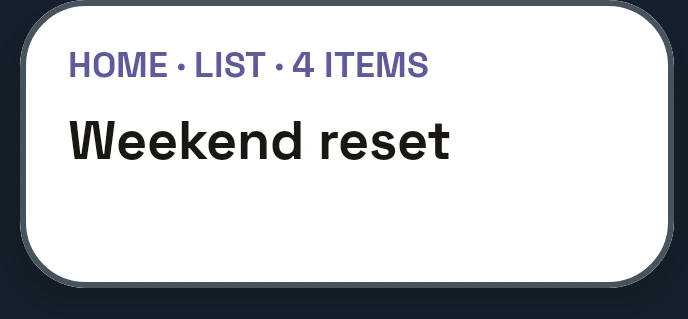
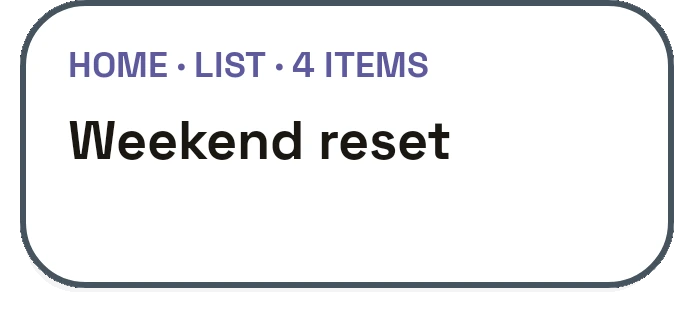
Today gathers its cards in, the mirror of the Board letting them go
The Board section scatters; this one collects. Today's fanned cards start spread
beside the copy and gather onto the stack on its screen as you scroll, fading
only once they have landed on it — so what is left is the stack the app itself
draws.

It is the same machinery both times, now shared: one --p from a rAF-throttled
scroll listener, targets measured against the live boxes and recomputed on
resize and on image load, since the rows are laid out from each card's own
aspect ratio and a lazy image has none until it arrives.

The static Today section it replaces is gone, and the board cards no longer
carry a rectangle of the app's page colour behind them.

Changed region(s): [[0.0, 0.0, 1.0, 1.0]]

diff --git a/src/main.jsx b/src/main.jsx
@@ -3,6 +3,7 @@ import { useEffect, useRef, useState } from "preact/hooks";
 import { Mark, Plate } from "./mark.jsx";
 import { Art, Phone, PhoneShell, ThemeToggle, useTheme } from "./theme.jsx";
 import BOARD_CARDS from "../public/media/art/board_cards.json";
+import TODAY_TARGET from "../public/media/art/today_target.json";
 import "./styles.css";
 
 const MAILTO = "mailto:contact@tackry.com?subject=Tackry";
@@ -161,36 +162,6 @@ function Loop() {
   );
 }
 
-/* ----------------------------------------------------------------- today -- */
-
-function Today() {
-  return (
-    <section class="section section-alt" id="today">
-      <div class="wrap">
-        <p class="eyebrow">Today</p>
-        <h2>A stack that fans out</h2>
-        <p class="section-lede">
-          Today opens on a single stack of plates — the app's own mark, holding your pinned
-          tacks. Tap it and the stack fans into a grid. Tap a card and it grows into a full
-          view you can act on, then shrinks back where it came from.
-        </p>
-        <div class="today-grid">
-          <Art
-            name="today_stack" width="1122" height="944"
-            alt="Today with the stack closed: three tilted plates holding a pinned tack, above counts reading 1 due now, 2 pinned, 5 new captures."
-            caption="Closed: one stack, and what is waiting behind it."
-          />
-          <Art
-            name="today_fan" width="1170" height="1521"
-            alt="The same plates after tapping the stack, fanned into a two-column grid of cards outlined in green, blue and orange."
-            caption="Tapped: the same plates, fanned into a grid."
-          />
-        </div>
-      </div>
-    </section>
-  );
-}
-
 /* --------------------------------------------------------------- screens -- */
 
 function Screens() {
@@ -225,33 +196,10 @@ function Screens() {
   );
 }
 
-/* ------------------------------------------------------------ board zoom -- */
-
-const BOARD_TRAVELLERS = 4;
-
-/**
- * The Board, and then the Board's own cards. Scrolling drives one number, --p, from 0 to 1: the
- * phone fades and the cards slide off it into a grid beside the copy.
- *
- * The cards are not stand-ins. They are sliced out of that very screenshot by
- * scripts/export_landing_art.py, which also records where each one sat as a fraction of the
- * screen — and writes the board back out with those cards erased. The phone shows the emptied
- * board, so each card exists exactly once: at rest it sits in its own hole and the screen looks
- * whole, and when it leaves it takes the gap with it.
- *
- * Where they land is measured, not guessed: the target grid is laid out against the live box, so
- * the travel is exact at any width and the cards barely have to scale, which keeps them sharp.
- */
-function BoardZoom() {
-  const track = useRef(null);
-  const scene = useRef(null);
-  const stage = useRef(null);
-  const [, effective] = useTheme();
-  const suffix = effective === "dark" ? "_midnight" : "";
-  const cards = BOARD_CARDS.slice(0, BOARD_TRAVELLERS);
-
+/** Drives --p on `node` from 0 to 1 across the section's scroll, one rAF at a time. */
+function useScrollProgress(ref) {
   useEffect(() => {
-    const node = track.current;
+    const node = ref.current;
     if (!node) return undefined;
     if (matchMedia("(prefers-reduced-motion: reduce)").matches) {
       node.style.setProperty("--p", "1");
@@ -277,7 +225,35 @@ function BoardZoom() {
       window.removeEventListener("scroll", onScroll);
       window.removeEventListener("resize", onScroll);
     };
-  }, []);
+  }, [ref]);
+}
+
+/* ------------------------------------------------------------ board zoom -- */
+
+const BOARD_TRAVELLERS = 4;
+
+/**
+ * The Board, and then the Board's own cards. Scrolling drives one number, --p, from 0 to 1: the
+ * phone fades and the cards slide off it into a grid beside the copy.
+ *
+ * The cards are not stand-ins. They are sliced out of that very screenshot by
+ * scripts/export_landing_art.py, which also records where each one sat as a fraction of the
+ * screen — and writes the board back out with those cards erased. The phone shows the emptied
+ * board, so each card exists exactly once: at rest it sits in its own hole and the screen looks
+ * whole, and when it leaves it takes the gap with it.
+ *
+ * Where they land is measured, not guessed: the target grid is laid out against the live box, so
+ * the travel is exact at any width and the cards barely have to scale, which keeps them sharp.
+ */
+function BoardZoom() {
+  const track = useRef(null);
+  const scene = useRef(null);
+  const stage = useRef(null);
+  const [, effective] = useTheme();
+  const suffix = effective === "dark" ? "_midnight" : "";
+  const cards = BOARD_CARDS.slice(0, BOARD_TRAVELLERS);
+
+  useScrollProgress(track);
 
   // Lay the landing grid out against the real boxes and hand each card its own delta. Done on
   // every resize because both the screen box and the space to land in are fluid.
@@ -397,6 +373,130 @@ function BoardZoom() {
 function rowHeight(cards, columns, row, sceneBox, scale) {
   const inRow = cards.slice(row * columns, row * columns + columns);
   return Math.max(...inRow.map((card) => card.height * sceneBox.height * scale));
+}
+
+/* ----------------------------------------------------------- today pull -- */
+
+/**
+ * Today, run the other way: the cards start spread across the page and gather into the stack on
+ * the screen as you scroll. Same machinery as the Board — one --p, targets measured against the
+ * live boxes — with start and end swapped, and the cards fading as they land so what is left is
+ * the stack the app actually draws.
+ */
+function TodayPull() {
+  const track = useRef(null);
+  const scene = useRef(null);
+  const field = useRef(null);
+  const [, effective] = useTheme();
+  const suffix = effective === "dark" ? "_midnight" : "";
+  const count = Math.min(TODAY_TARGET.cards, 6);
+
+  useScrollProgress(track);
+
+  useEffect(() => {
+    const sceneNode = scene.current;
+    const fieldNode = field.current;
+    if (!sceneNode || !fieldNode) return undefined;
+
+    const layout = () => {
+      const sceneBox = sceneNode.getBoundingClientRect();
+      const fieldBox = fieldNode.getBoundingClientRect();
+      if (!sceneBox.width || !fieldBox.width) return;
+
+      const nodes = [...fieldNode.querySelectorAll(".pull-card")];
+      const columns = fieldBox.width < 420 ? 2 : 2;
+      const gap = Math.min(16, fieldBox.width * 0.03);
+      const columnWidth = (fieldBox.width - gap * (columns - 1)) / columns;
+
+      const deck = TODAY_TARGET.deck;
+      const deckLeft = sceneBox.left + 10 + deck.left * (sceneBox.width - 20);
+      const deckTop = sceneBox.top + 10 + deck.top * (sceneBox.height - 20);
+      const deckWidth = deck.width * (sceneBox.width - 20);
+
+      let rowTop = 0;
+      let rowTallest = 0;
+      nodes.forEach((node, index) => {
+        const column = index % columns;
+        const ratio = (node.naturalHeight || 1) / (node.naturalWidth || 1);
+        const cardHeight = columnWidth * ratio;
+        if (column === 0 && index > 0) {
+          rowTop += rowTallest + gap;
+          rowTallest = 0;
+        }
+        rowTallest = Math.max(rowTallest, cardHeight);
+
+        const left = column * (columnWidth + gap);
+        node.style.left = `${left}px`;
+        node.style.top = `${rowTop}px`;
+        node.style.width = `${columnWidth}px`;
+
+        // Every card lands on the deck, shrunk to its width and nudged so the pile reads as a
+        // stack rather than one card.
+        const nudge = (index - (nodes.length - 1) / 2) * 3;
+        node.style.setProperty("--ex", `${(deckLeft - fieldBox.left - left + nudge).toFixed(1)}px`);
+        node.style.setProperty("--ey", `${(deckTop - fieldBox.top - rowTop + nudge * 0.6).toFixed(1)}px`);
+        node.style.setProperty("--s", (deckWidth / columnWidth).toFixed(4));
+      });
+    };
+
+    layout();
+    // The rows are laid out from each card's own aspect ratio, which is not known until the
+    // image has loaded — and these are lazy, so that is after the first pass.
+    const nodes = [...fieldNode.querySelectorAll(".pull-card")];
+    nodes.forEach((node) => node.addEventListener("load", layout));
+    const observer = new ResizeObserver(layout);
+    observer.observe(sceneNode);
+    observer.observe(fieldNode);
+    window.addEventListener("resize", layout);
+    return () => {
+      nodes.forEach((node) => node.removeEventListener("load", layout));
+      observer.disconnect();
+      window.removeEventListener("resize", layout);
+    };
+  }, [count]);
+
+  return (
+    <section class="section zoom pull" id="today">
+      <div class="zoom-track" ref={track}>
+        <div class="zoom-stage pull-stage">
+          <div class="zoom-right">
+            <div class="zoom-scene" ref={scene}>
+              <div class="phone-body">
+                <img
+                  src={`/media/art/screen_today${suffix}.webp`}
+                  width="1170"
+                  height="2532"
+                  alt="Tackry's Today screen: a stack of tilted plates holding the pinned tacks, with counts for what is due now, pinned and newly captured."
+                  loading="lazy"
+                  decoding="async"
+                />
+              </div>
+            </div>
+          </div>
+          <div class="zoom-copy">
+            <p class="eyebrow">Today</p>
+            <h2>A stack that fans out</h2>
+            <p class="section-lede">
+              Everything you pinned collects into one stack on Today — the app's own mark, holding
+              your things. Tap it and the stack fans back out into a grid.
+            </p>
+            <div class="pull-field" ref={field} aria-hidden="true">
+              {Array.from({ length: count }, (_, index) => (
+                <img
+                  key={index}
+                  class="pull-card"
+                  src={`/media/art/today_card_${index + 1}${suffix}.webp`}
+                  alt=""
+                  loading="lazy"
+                  decoding="async"
+                />
+              ))}
+            </div>
+          </div>
+        </div>
+      </div>
+    </section>
+  );
 }
 
 /* --------------------------------------------------------------- meaning -- */
@@ -661,9 +761,9 @@ function App() {
       <main id="main">
         <Hero />
         <Loop />
-        <Today />
         <Screens />
         <BoardZoom />
+        <TodayPull />
         <Meaning />
         <Themes />
         <Privacy />

diff --git a/src/styles.css b/src/styles.css
@@ -851,3 +851,38 @@ summary:focus-visible {
   .zoom-phone { opacity: 1; }
   .zoom-cards { display: none; }
 }
+
+
+/* ------------------------------------------------------------- today pull */
+
+/* Today runs the Board's effect backwards, so it mirrors its layout: the phone on
+   the left, the copy and the cards that gather into it on the right. */
+.pull-stage { direction: ltr; }
+
+@media (min-width: 900px) {
+  .pull-stage .zoom-right { order: -1; }
+}
+
+.pull-field {
+  position: relative;
+  margin-top: 1.4rem;
+  min-height: clamp(220px, 34vh, 340px);
+}
+
+.pull-card {
+  position: absolute;
+  height: auto;
+  transform-origin: 0 0;
+  /* The travel finishes at --p 0.8 and the fade runs after it, so a card is on the
+     stack before it disappears into it rather than vanishing in mid-air. */
+  --q: clamp(0, calc(var(--p) * 1.25), 1);
+  transform:
+    translate(calc(var(--ex, 0px) * var(--q)), calc(var(--ey, 0px) * var(--q)))
+    scale(calc(1 + (var(--s, 1) - 1) * var(--q)));
+  opacity: clamp(0, calc(10 - var(--p) * 10), 1);
+  will-change: transform, opacity;
+}
+
+@media (prefers-reduced-motion: reduce) {
+  .pull-field { display: none; }
+}
